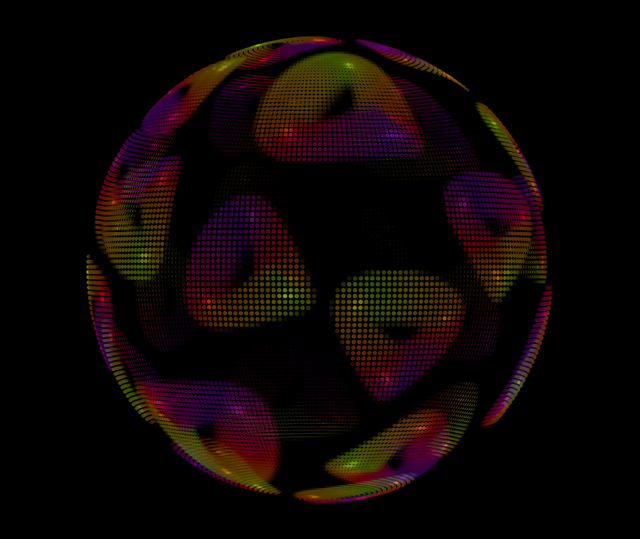
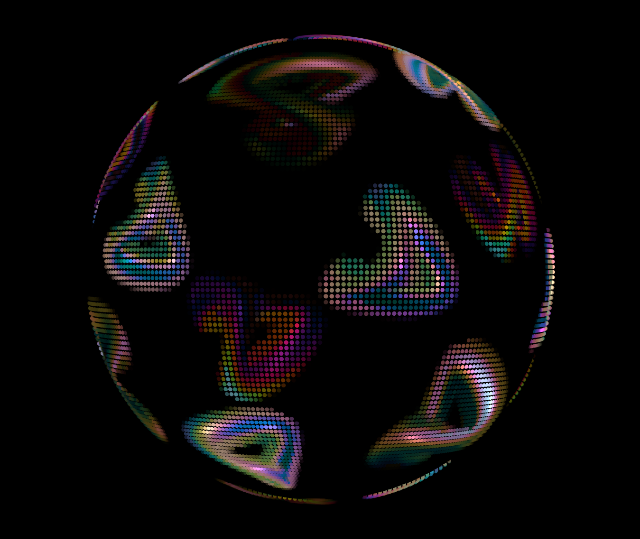
docs: shorten HyperLattice and refresh lattice and raymarch captures

Changed region(s): [[0.125, 0.0594, 0.875, 0.9499]]

diff --git a/docs/effects.md b/docs/effects.md
@@ -271,29 +271,7 @@ An affine primitive lattice rendered as soft iso contours through a folded gnomo
 
 ### HyperLattice
 
-An analytic flight through periodic wire lattices and curved shells. **Pattern** selects the geometry; **View** selects 3D perspective or a 4D slice. Cubic, octet, sheared cubic, and shells support both views. Diamond, honeycomb, and rhombic cells support 3D perspective; selecting one adopts its 3D view and makes **View** read-only. Invalid configurations are rejected without changing live state. Valid changes adopt the selected geometry's defaults. Automatic transitions between presets of one pattern and view interpolate every continuous control, with Lattice Planes switching at the midpoint; a transition that changes the pattern or view fades the outgoing preset to black, switches, and fades the incoming one in.
-
-The core analytic adapter walks approximate plane-crossing coverage events. **Lattice Planes** limits crossings per axis; it is not a spherical shell count. The original preset IDs remain `cubic-flight` and `hypercube-flight`. Parameter schema 14 rejects older snapshots without changing live state. The 4D Spin control is read-only in 3D.
-
-Presets cycle by pattern, 3D before 4D: Cubic Flight, Cubic Wide Flight, and Hypercube Flight, then in experimental builds Octet Flight, Octet Wide Flight, Octet 4D Flight, Shell Flight, Shell Close Flight, and Shell 4D Flight. The simulator offers **Experimental / Octet Truss** with two 3D presets and Octet 4D Flight, whose zero-radius camera uses Cell Size 3.448, Wire Radius 0.02919, Near Fade 2.0, Far Distance 16.0, AA Strength 2.0, Speed 0.008, 3D Spin 0.01146, and 4D Spin 0.010875. In 3D, four equally spaced plane families with tetrahedral normals produce regular tetrahedral and octahedral cells. The 4D version uses the D4 lattice's nearest-neighbor edges, with 24 neighbors per vertex. Both evaluate each strut once, at crossings of the plane family most nearly perpendicular to the ray, with coverage from the ray's closest approach to the strut. **Unfinished Rays** counts traversals that cannot complete; already consumed layers remain visible. Controls that do not apply become read-only. The presets use continuous bounded camera motion. Standard Teensy builds include the two original cubic presets and **Cubic Wide Flight**, with its zero-radius camera, 2.38525 cell size, 2.0 near fade, and 11.66 far distance. Experimental device builds opt in with `HS_ENABLE_HYPERLATTICE_EXPERIMENTS=1`. See the [preset guide](profiles/hyperlattice_experimental_presets_2026-09-27.md) for complete settings, limits, and reproduction.
-
-The additional experimental patterns use bounded analytic traversal:
-
-| Pattern | Presets | Controls |
-|---|---|---|
-| Diamond | None | Cell Size, Wire Radius |
-| Honeycomb | None | Cell Size, Wire Radius |
-| Rhombic Cells | None | Cell Size, Wire Radius |
-| Sheared Cubic | None | Cell Size, Wire Radius, Shear, Stretch |
-| Shells | Shell Flight, Shell Close Flight (3D); Shell 4D Flight (4D slice) | Cell Size, Shell Radius |
-
-Shear skews the cubic basis; Stretch elongates it. Shells are spherical. Shell Radius is a fraction of Cell Size and is separate from Sphere Radius, which controls the camera's radial start. Softness and Lattice Planes apply only to the original cubic renderer. Wire Radius and Stretch are read-only for shells. Experimental device builds remain opt-in; simulator availability is not a frame-rate guarantee.
-
-Shell Flight defaults to a zero-radius camera, Cell Size 0.78625, Near Fade 2.0, Far Distance 10.736, AA Strength 2.0, Speed 0.025, 3D Spin 0.015, and Shell Radius 0.1.
-
-Shell Close Flight uses Cell Size 0.4645, Near Fade 0.6, Far Distance 5.836, 3D Spin 0.003, and Shell Radius 0.15; its other active controls match Shell Flight.
-
-Shell 4D Flight slices the 4D shells with a zero-radius camera, Cell Size 1.0, Near Fade 2.0, Far Distance 16.0, AA Strength 2.0, Speed 0.05, 3D Spin 0.005, 4D Spin 0.005, and Shell Radius 0.15.
+A flight through periodic wire lattices and curved shells in 3D perspective or a rotating 4D slice. See the [preset guide](profiles/hyperlattice_experimental_presets_2026-09-27.md) for geometry options and settings.
 
 **Parameters**: Pattern, View (3D perspective, 4D slice), Sphere Radius, Cell Size, Wire Radius, Softness, Near Fade, Far Distance, AA Strength, Speed, 3D Spin, 4D Spin, Lattice Planes, Shear, Stretch, Shell Radius
 
